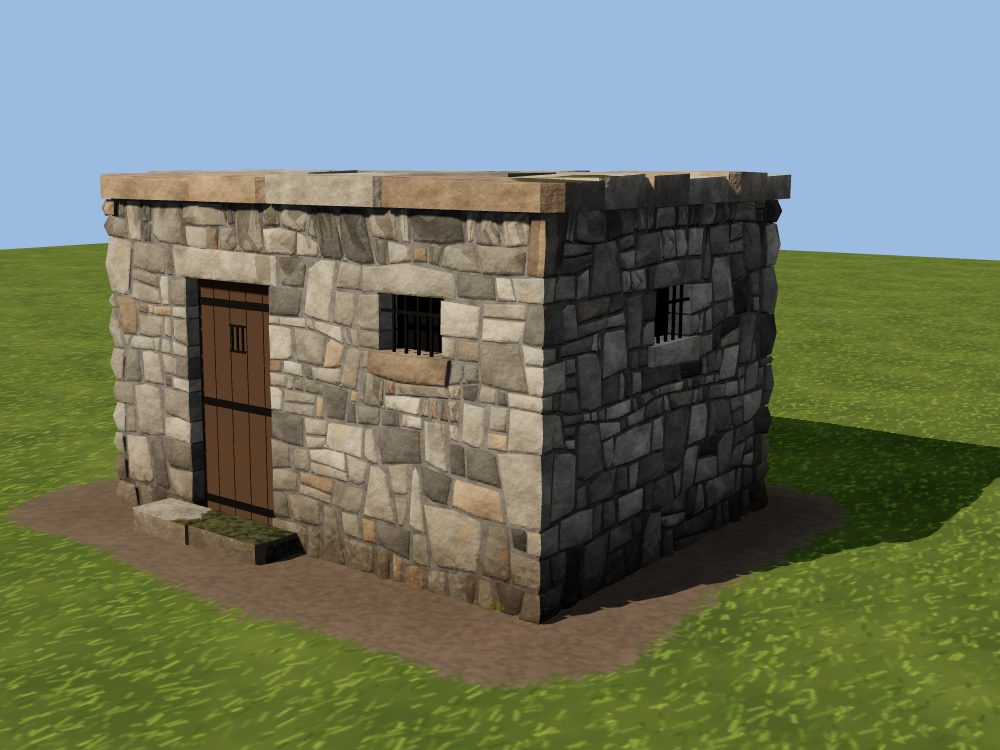
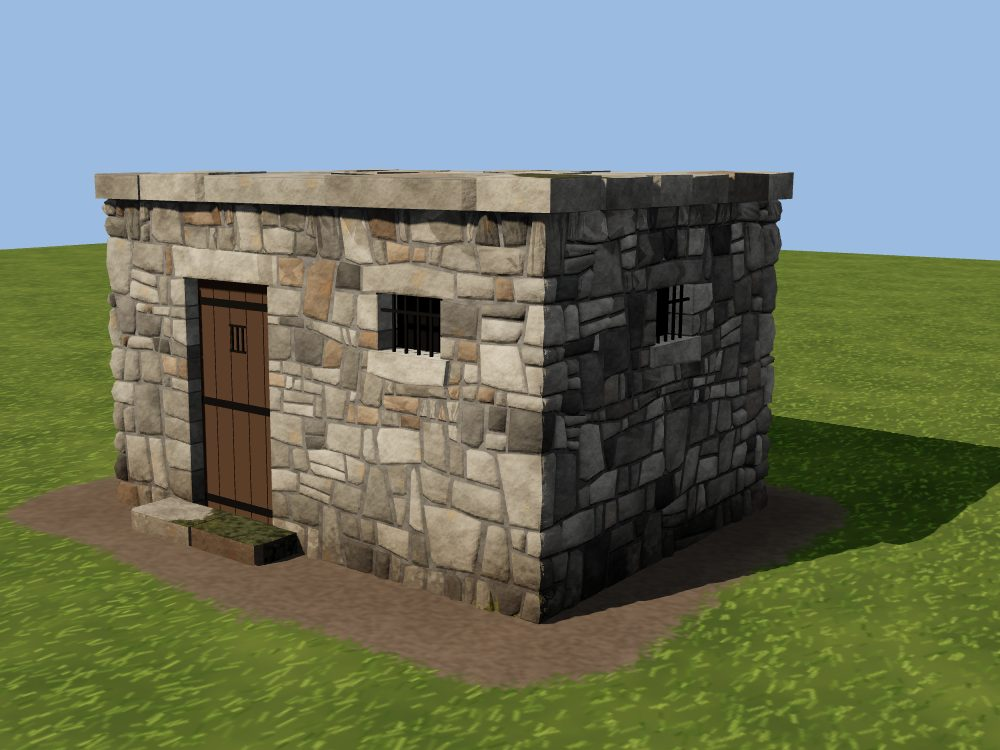
Stone Lab: rounded corner stones, every stone sitting on the mortar, a mortar depth slider, closed caps
Claude-Session: https://claude.ai/code/session_013cjWkL4PLa5o6fvGQ3D2Bo

diff --git a/mathwood-valley/labs/stone/stonewall.js b/mathwood-valley/labs/stone/stonewall.js
@@ -52,9 +52,10 @@ export const TILE = 0.7;                       // metres to one repeat of the st
 // shape (a key of SHAPES), style (STYLES), palette (PALETTES, or 'auto': the shape's or style's own), mortar (MORTARS),
 // seed (which wall of all the walls that recipe could build), size (a typical stone, metres), irregularity (0..1),
 // colourMix (0: more of the palette's base colour, 1: more of its second), bulge (0..2: how far the stones stand out),
-// joint (the joint's width, metres)
-export const RECIPE_DEFAULTS = { shape: 'wall', style: 'mortared', palette: 'auto', mortar: 'grey', seed: 1, size: 0.3, irregularity: 0.5, colourMix: 0.5, bulge: 0.6, joint: 0.012 };
-const RANGES = { seed: [1, 1e9], size: [0.12, 0.8], irregularity: [0, 1], colourMix: [0, 1], bulge: [0, 2], joint: [0, 0.05] };
+// joint (the joint's width, metres), mortarDepth (mortared: how far the mortar's face sits back from the wall line,
+// metres; the stones' outlines always sit on it, so it never shows a gap behind a stone, and 0 is flush)
+export const RECIPE_DEFAULTS = { shape: 'wall', style: 'mortared', palette: 'auto', mortar: 'grey', seed: 1, size: 0.3, irregularity: 0.5, colourMix: 0.5, bulge: 0.6, joint: 0.012, mortarDepth: 0.02 };
+const RANGES = { seed: [1, 1e9], size: [0.12, 0.8], irregularity: [0, 1], colourMix: [0, 1], bulge: [0, 2], joint: [0, 0.05], mortarDepth: [0, 0.05] };
 // a recipe tidied up: only the keys above, each a known name or a number in range (what a town would store per building)
 export function stoneRecipe(r = {}) {
   const out = { ...RECIPE_DEFAULTS };
@@ -85,11 +86,15 @@ const G = -0.12;                               // walls start 12 cm under the gr
 //   stands well out from the wall). k, max: how far in the ring is (share of the stone's half width, at most max
 //   metres); faceK: how much of the bulge the ring lifts the face; faceAdd: metres more, between these two, per stone.
 //   Three triangles a corner instead of one.
+// corner (mortared): a stone within `near` metres of an outside corner gets a ring too, so seen edge on past the corner
+//   it has a rounded profile (steep sides, a rounder top), not the point of a pyramid; extra: how far its middle rises
+//   above the ring. Every mortared stone's outline sits down on the mortar: none floats off it.
 // joint: the gap between stones, times the "joint width" slider; fill: the mortar's colour times this, for the backing
 // (a dry wall's gaps a little darker than a mortared wall's joints); value: how much lighter or darker one stone is
 // than the next
 export const STYLES = {
-  mortared: { label: 'Mortared', recess: 0.035, rim: [0.002, 0.012], tilt: 0.07, bulge: [0.15, 0.2], stick: 0.03, ring: null, joint: 1, maxN: 7, coreAO: 0.8, rimAO: 0.85, value: 0.16, shadow: true, fill: 1 },
+  mortared: { label: 'Mortared', recess: 0.035, tilt: 0.07, bulge: [0.15, 0.2], stick: 0.03, ring: null, joint: 1, maxN: 7, coreAO: 0.8, rimAO: 0.85, value: 0.16, shadow: true, fill: 1,
+    corner: { near: 0.5, k: 0.35, max: 0.04, faceK: 0, extra: [0.005, 0.012] } },
   drystack: { label: 'Dry-stacked', recess: 0.09, rim: [0, 0.003], tilt: 0.07, bulgeK: 0.35, ring: { k: 0.24, max: 0.03, faceK: 0.5, faceAdd: [0.05, 0.11] }, joint: 0.45, maxN: 5, fill: 0.88, coreAO: 0.82, rimAO: 0.7, value: 0.14 },
   ledgestone: { label: 'Ledgestone', recess: 0.05, rim: [0, 0.002], tilt: 0.035, bulgeK: 0.06, ring: { k: 0.4, max: 0.01, faceK: 0, faceAdd: [0.03, 0.07] }, joint: 0.6, jointVar: true, maxN: 6, fill: 0.88, coreAO: 0.82, rimAO: 0.75, value: 0.1 },
 };
@@ -425,7 +430,7 @@ function layoutCoursed(sec, ops, o, R) {
     const TL = onLine(X.ljl, Lt), TR = onLine(X.ljr, Lt), p = [[X.la, vb], [X.ua, vb], [X.ub, vb], [X.lb, vb], TR], f = [OUT, REV, OUT, J, J];
     const mt = (TL[0] + TR[0]) / 2, yt = at(Lt, mt); if (yt > (TL[1] + TR[1]) / 2 + 0.004) { p.push([mt, yt]); f.push(J); }
     p.push(TL); f.push(J);
-    const q = { p, f, proud: 0.008, light: 1.08 };
+    const q = { p, f, lift: 0.008, light: 1.08 };
     for (const i of [p.length - 1, 4].filter(() => R() < 0.8)) chip(q, i, s * (0.05 + 0.12 * R()), s * (0.03 + 0.08 * R()));
     out.push(q);
     if (X.door) continue;
@@ -610,7 +615,7 @@ function layoutCoursed(sec, ops, o, R) {
       }
       const q = rubble(jl, jr, lines[b], lines[st.top], fB, fR, fT, fL, K, st.force);
       if (!q) continue;
-      if (st.kind === 'quoin') q.proud = 0.01 + 0.01 * R();
+      if (st.kind === 'quoin') q.lift = 0.004 + 0.006 * R();
       q.drip = drip;
       out.push(q);
     }
@@ -861,7 +866,7 @@ function layoutTop(T, o, R) {
   const inRect = (x, z) => T.rects.some((r) => x > r.x0 - 1e-6 && x < r.x1 + 1e-6 && z > r.z0 - 1e-6 && z < r.z1 + 1e-6);
   const inHole = (x, z) => (T.holes || []).some(([a, b, c, d]) => x > a && x < b && z > c && z < d);
   return out.map((q) => {
-    const n0 = q.p.length, tk = 0.9 + 0.2 * R();
+    const n0 = q.p.length, tk = 0.95 + 0.1 * R();
     const F = q.p.map((P, i) => {
       const Q = q.p[(i + 1) % n0], dx = Q[0] - P[0], dz = Q[1] - P[1], L = Math.hypot(dx, dz) || 1, cx = (P[0] + Q[0]) / 2, cz = (P[1] + Q[1]) / 2;
       const mx = cx + dz / L * 0.012, mz = cz - dx / L * 0.012;
@@ -879,7 +884,7 @@ function layoutTop(T, o, R) {
       let x = P[0], y = P[1];
       for (const e of [(i - 1 + n0) % n0, i]) {
         if (!isLip(F[e])) { (e === i ? ovOut : ovIn)[i] = Infinity; continue; }
-        const A = q.p[e], B = q.p[(e + 1) % n0], eu = B[0] - A[0], ev = B[1] - A[1], L = Math.hypot(eu, ev) || 1, d = Math.max(0, F[e].ov - 0.04) * R() * rough;
+        const A = q.p[e], B = q.p[(e + 1) % n0], eu = B[0] - A[0], ev = B[1] - A[1], L = Math.hypot(eu, ev) || 1, d = Math.max(0, F[e].ov - 0.04) * R() * 0.5 * rough;
         x += -ev / L * d; y += eu / L * d;                          // (inward: an anticlockwise edge's left)
         (e === i ? ovOut : ovIn)[i] = F[e].ov - d;
       }
@@ -942,6 +947,10 @@ const ground = (y) => 0.76 + 0.24 * smooth(y, -0.05, 0.7);      // a corner near
 // one stone: its outline q (on the strip, or on a wall top), how it looks L. Folded round any outside corner it crosses.
 function addStone(M, q, surf, L) {
   const c = centroid(q.p), A = Math.abs(area(q.p));
+  // (the whole stone's narrowness: how far its middle is from its nearest edge; both halves of a folded stone use it)
+  let pinS = Infinity;
+  q.p.forEach((P, i) => { const Q = q.p[(i + 1) % q.p.length], dx = Q[0] - P[0], dy = Q[1] - P[1], Ln = Math.hypot(dx, dy) || 1; pinS = Math.min(pinS, Math.abs((c[0] - P[0]) * dy - (c[1] - P[1]) * dx) / Ln); });
+  L = { ...L, pinS };
   let pieces = [q], folds = [];
   if (surf.sec) {
     const sec = surf.sec, P = sec.P, sh = Math.floor(c[0] / P) * P;
@@ -967,10 +976,12 @@ function addPiece(M, q, surf, L, c, A, folds) {
   // corner would stick out like a fin)
   let pin = Infinity;
   q.p.forEach((P, i) => { const Q = q.p[(i + 1) % q.p.length], dx = Q[0] - P[0], dy = Q[1] - P[1], Ln = Math.hypot(dx, dy) || 1; pin = Math.min(pin, Math.abs((pc[0] - P[0]) * dy - (pc[1] - P[1]) * dx) / Ln); });
-  const RG = A > 0.014 ? L.ring : null, share = clamp(Math.sqrt(pa / A) * 1.25, 0.3, 1);
+  const RG = A > (L.ringMinA ?? 0.014) ? L.ring : null, share = clamp(Math.sqrt(pa / A) * 1.25, 0.3, 1);
   const hP = Math.min((RG ? L.extra : L.hB) * share, 0.7 * pin);
   // with a ring: the outline on the backing, the face (leaning as the stone leans) on the ring
-  const faceH = (u, v) => clamp(L.face + L.tu * (u - c[0]) + L.tv * (v - c[1]), 0.006, 2 * L.face + 0.02);
+  // (never higher than the stone is wide allows: a thin stone stays low)
+  const fMax = Math.max(0.006, Math.min(2 * L.face + 0.02, 1.2 * L.pinS + 0.004));
+  const faceH = (u, v) => clamp(L.face + L.tu * (u - c[0]) + L.tv * (v - c[1]), 0.006, fMax);
   // its outline, with a point added half way along each fold (the corner of the stone, rounded out)
   const V = [];
   for (let i = 0; i < q.p.length; i++) {
@@ -1054,7 +1065,10 @@ function addPiece(M, q, surf, L, c, A, folds) {
       // along the stone's bottom edge, the top third or so of the joint, where the stone above overhangs it. It stops
       // short of a fold by the mortar's depth (there the next face's mortar takes over), so it never pokes past a corner.
       const z = L.core + 0.0012, dv = -0.009, tn = L.shadow, tr = -L.core + 0.004;
-      const pu = P.u + (P.F ? tr : 0), qu = Q.u - (Q.F ? tr : 0), vAt = (u) => P.v + (Q.v - P.v) * (u - P.u) / (Q.u - P.u);
+      // (and so does a strip under a stone that merely ends near an outside corner: none reaches past the next face's
+      // mortar)
+      const n2 = sec.n, cA = sec.C[k] + (sec.convex[k] ? tr : -1), cB = sec.C[k + 1] - (sec.convex[(k + 1) % n2] ? tr : -1);
+      const pu = Math.max(P.u + (P.F ? tr : 0), cA), qu = Math.min(Q.u - (Q.F ? tr : 0), cB), vAt = (u) => P.v + (Q.v - P.v) * (u - P.u) / (Q.u - P.u);
       if (qu - pu > 0.01) {
         const pv = vAt(pu), qv = vAt(qu);
         const pts = [[pu, pv], [qu, qv], [qu, qv + dv], [pu, pv + dv]].map(([u, v]) => { const m = at(u, v); return add(m, [m[3], m[4], m[5]], z); });
@@ -1073,15 +1087,16 @@ function addPiece(M, q, surf, L, c, A, folds) {
     if (flip) sn = [-sn[0], -sn[1], -sn[2]];
     // its texture carries on over the edge, as if folded down
     const eu = Q.u - P.u, ev = Q.v - P.v, el = Math.hypot(eu, ev) || 1, ou = ev / el, ov = -eu / el, k2 = fl.skirt / TILE;
-    const farAO = fl.dir === 'down' ? (fl.inset ? 0.8 : 0.66) : 0.8, nearAO = fl.dir === 'down' ? 0.9 : 0.95;
+    const farAO = fl.dir === 'down' ? (fl.inset ? 0.85 : 0.75) : 0.8, nearAO = fl.dir === 'down' ? 0.92 : 0.95;
     const i0 = M.v(P.pos, sn, P.uv, tl, nearAO * ground(P.pos[1]), [0, inr], L.drip), i1 = M.v(Q.pos, sn, Q.uv, tl, nearAO * ground(Q.pos[1]), [0, inr], L.drip);
     const i2 = M.v(b2, sn, [Q.uv[0] + ou * k2, Q.uv[1] + ov * k2], tl, farAO * ground(b2[1]), [fl.skirt, inr], L.drip), i3 = M.v(a2, sn, [P.uv[0] + ou * k2, P.uv[1] + ov * k2], tl, farAO * ground(a2[1]), [fl.skirt, inr], L.drip);
     if (flip) { M.t(i0, i2, i1); M.t(i0, i3, i2); } else { M.t(i0, i1, i2); M.t(i0, i2, i3); }
     if (fl.soffit) {
       // the underside of the overhang, back toward the wall: in shadow
-      const inA = add(a2, [-ou, 0, -ov], fl.soffit), inB = add(b2, [-ou, 0, -ov], fl.soffit), dk = [tl[0] * 0.9, tl[1] * 0.9, tl[2] * 0.9, 4];
-      const j0 = M.v(a2, [0, -1, 0], [P.uv[0] + ou * k2, P.uv[1] + ov * k2], dk, 0.6, [0, inr], L.drip), j1 = M.v(b2, [0, -1, 0], [Q.uv[0] + ou * k2, Q.uv[1] + ov * k2], dk, 0.6, [0, inr], L.drip);
-      const j2 = M.v(inB, [0, -1, 0], [Q.uv[0], Q.uv[1]], dk, 0.48, [fl.soffit, inr], L.drip), j3 = M.v(inA, [0, -1, 0], [P.uv[0], P.uv[1]], dk, 0.48, [fl.soffit, inr], L.drip);
+      // (lit only by what bounces up off the ground, so already dark: not darkened much more on top of that)
+      const inA = add(a2, [-ou, 0, -ov], fl.soffit), inB = add(b2, [-ou, 0, -ov], fl.soffit), dk = tl;
+      const j0 = M.v(a2, [0, -1, 0], [P.uv[0] + ou * k2, P.uv[1] + ov * k2], dk, 0.85, [0, inr], L.drip), j1 = M.v(b2, [0, -1, 0], [Q.uv[0] + ou * k2, Q.uv[1] + ov * k2], dk, 0.85, [0, inr], L.drip);
+      const j2 = M.v(inB, [0, -1, 0], [Q.uv[0], Q.uv[1]], dk, 0.72, [fl.soffit, inr], L.drip), j3 = M.v(inA, [0, -1, 0], [P.uv[0], P.uv[1]], dk, 0.72, [fl.soffit, inr], L.drip);
       const dn = cross(sub(b2, a2), sub(inA, a2));
       if (dn[1] < 0) { M.t(j0, j1, j2); M.t(j0, j2, j3); } else { M.t(j0, j2, j1); M.t(j0, j3, j2); }
     }
@@ -1155,7 +1170,8 @@ function addCore(M, sec0, ops, st, tint, dark, capY, flue, dripY = sec0.y1) {
 export function buildStoneWall(recipe = {}, env = {}) {
   const t0 = performance.now();
   const o = stoneRecipe(recipe);
-  const st = STYLES[o.style], shape = SHAPES[o.shape], spec = shape.make(o);
+  // (a mortared wall's mortar sits as deep as the recipe says)
+  const st = o.style === 'mortared' ? { ...STYLES.mortared, recess: o.mortarDepth } : STYLES[o.style], shape = SHAPES[o.shape], spec = shape.make(o);
   const pal = PALETTES[o.palette] || PALETTES[shape.palette || (o.style === 'ledgestone' ? 'brown' : 'grey')], mo = MORTARS[o.mortar];
   // (a shape may want its own stones: the jail's smaller, rounder cobbles)
   const oL = { ...o, size: o.size * (shape.stones?.size ?? 1), round: !!shape.stones?.round };
@@ -1179,17 +1195,28 @@ export function buildStoneWall(recipe = {}, env = {}) {
   const dark = [...tintOf([0.06, 0.055, 0.05]), 3];
   // how one stone looks: how far its rim stands out, its lean, its bulge and where that peaks, where it reads the texture
   const look = (q, pos, extra = {}) => {
-    const A = Math.abs(area(q.p)), ang = R() * 6.283, tilt = st.tilt * (0.5 + 0.5 * R()), proud = q.proud || 0, rg = st.ring;
-    const bb = bbox(q.p), short = Math.min(bb[1] - bb[0], bb[3] - bb[2]);
-    const hB = rg ? Math.min(o.bulge * st.bulgeK * Math.sqrt(A) * (0.75 + 0.5 * R()), 0.035 + 0.02 * o.bulge)
+    const A = Math.abs(area(q.p)), ang = R() * 6.283, tilt = st.tilt * (0.5 + 0.5 * R()), proud = q.proud || 0, cr = st.corner && q.nearCorner ? st.corner : null, rg = st.ring || cr;
+    const bb = bbox(q.p), short = Math.min(bb[1] - bb[0], bb[3] - bb[2]), base = -st.recess + 0.002 + proud;
+    const hB = st.ring ? Math.min(o.bulge * st.bulgeK * Math.sqrt(A) * (0.75 + 0.5 * R()), 0.035 + 0.02 * o.bulge)
       : (st.bulge[0] + (st.bulge[1] - st.bulge[0]) * R()) * short * o.bulge / 0.6 * (R() < 0.12 ? 0.45 : 1) + st.stick * R();
-    const tint = colourAt(pos, q.noDark), lt = Math.pow(q.light || 1, 2.2), r0 = -st.recess + st.rim[0] + (st.rim[1] - st.rim[0]) * R() + proud;
-    // (a stone's face is a fan round one point: past about 2 cm proud of the wall line, seen edge on at a corner or a
-    // wall end, that point reads as a spike, not a rounded stone)
-    const hBc = rg ? hB : Math.min(hB, 0.022 + proud - r0);
-    return { tint: tint.map((x) => x * lt), r0, hB: hBc, rMin: -st.recess + 0.002 + proud, rMax: -st.recess + st.rim[1] + 0.006 + proud,
+    const tint = colourAt(pos, q.noDark), lt = Math.pow(q.light || 1, 2.2);
+    // a dry stone: its outline on the backing, its face on a ring of corners standing well out
+    let face = 0, extraH = 0, hBc = hB, r0 = base, rMin = base, rMax = base;
+    if (st.ring) { face = hB * rg.faceK + rg.faceAdd[0] + (rg.faceAdd[1] - rg.faceAdd[0]) * R(); extraH = hB * (1 - rg.faceK); }
+    else if (cr) {
+      // A MORTARED STONE NEAR AN OUTSIDE CORNER: seen edge on past the corner, its profile is what shows, so it is rounded:
+      // the outline on the mortar, steep sides up to a ring of corners, a gently rounded top. (A corner stone stands a
+      // little prouder: its face is higher, its outline still on the mortar, so it never floats off the grout.)
+      face = (st.recess + 0.004 + 0.01 * R()) * o.bulge / 0.6 + (q.lift || 0);
+      extraH = (cr.extra[0] + (cr.extra[1] - cr.extra[0]) * R()) * o.bulge / 0.6;
+    } else {
+      // any other mortared stone: a fan round one raised point, its outline on the mortar, its middle at most 1.2 cm
+      // past the wall line (seen along the wall, a higher point reads as a spike)
+      hBc = Math.min(hB, 0.012 - base + (q.lift || 0));
+    }
+    return { tint: tint.map((x) => x * lt), r0, hB: hBc, rMin, rMax,
       tu: Math.cos(ang) * tilt, tv: Math.sin(ang) * tilt, apex: [0.3 * R(), R()], edgeK: 0.35 + 0.65 * R(), rimAO: st.rimAO, uvo: [R(), R()],
-      ring: rg, base: -st.recess + 0.0015, face: rg ? hB * rg.faceK + rg.faceAdd[0] + (rg.faceAdd[1] - rg.faceAdd[0]) * R() : 0, extra: rg ? hB * (1 - rg.faceK) : 0,
+      ring: rg, ringMinA: st.ring ? 0.014 : 0.003, base: st.ring ? -st.recess + 0.0015 : base, face, extra: extraH,
       core: -st.recess, shadow: st.shadow ? shadowTint : null, shadowHalf: halfTint, MS: M.mortar, drip: q.drip, ...extra };
   };
   // the joint: a dry wall's gaps vary stone to stone (0.5 to 2.5 cm on ledgestone)
@@ -1212,8 +1239,15 @@ export function buildStoneWall(recipe = {}, env = {}) {
     const polys = o.style === 'mortared' ? layoutCoursed(sec, ops, oL, R) : layoutPacked(sec, ops, oL, R, o.style === 'ledgestone');
     for (const q of polys) {
       const f = finish(q, jwOf(), st.ring && Math.abs(area(q.p)) < 0.012 ? 4 : st.maxN, 0.03); if (!f) continue;
+      // (a sliver, under 2.5 cm across either way, is no stone: left out, the mortar shows; raised as a corner stone it
+      // would stick out of the corner like a thin plate)
+      if (o.style === 'mortared') { const b = bbox(f.p); if (b[1] - b[0] < 0.025 || b[3] - b[2] < 0.025) continue; }
       const c = centroid(f.p), m = mapStrip(sec, c[0], c[1], faceAt(sec, c[0]));
-      f.proud = q.proud; f.drip = spec.building ? -1 : q.drip ?? (sec.isTop ? capBottom : sec.y1);
+      f.proud = q.proud; f.lift = q.lift; f.light = q.light; f.drip = spec.building ? -1 : q.drip ?? (sec.isTop ? capBottom : sec.y1);
+      if (st.corner) {
+        const b = bbox(f.p), nr = st.corner.near;
+        f.nearCorner = sec.C.some((cu, k) => k < sec.n && sec.convex[k] && [-sec.P, 0, sec.P].some((sh) => cu + sh > b[0] - nr && cu + sh < b[1] + nr));
+      }
       addStone(M.stone, f, { sec }, look(f, m, sec.isTop ? { capY: capBottom } : {})); count++;
     }
     addCore(M.mortar, sec, ops, st, mortarTint, dark, sec.isTop ? T.y - Math.min(0.03, T.t * 0.3) : null, sec.isTop && T.holes ? T.holes[0] : null, spec.building ? -1 : sec.y1);
@@ -1222,7 +1256,7 @@ export function buildStoneWall(recipe = {}, env = {}) {
   for (const q of layoutTop(T, o, R)) {
     if (T.hide) { const b = bbox(q.p); if (b[0] > T.hide[0] && b[1] < T.hide[1] && b[2] > T.hide[2] && b[3] < T.hide[3]) continue; }
     // (all its corners kept: merging corners away would pull a slab's joint edge to a point and open a gap)
-    const f = finish(q, jw * 0.5, 64, 0.004); if (!f) continue;
+    const f = finish(q, Math.min(jw * 0.25, 0.004), 64, 0.004); if (!f) continue;
     const c = centroid(f.p); f.drip = T.y - T.t - 0.08; f.noDark = true;  // (no rain streak down its own lip)
     const L = look(f, [c[0], T.y, c[1]]);
     // (its top: up to 10% higher or lower than the next slab's, rounded off toward its edges; a dry chimney's capstones
@@ -1258,7 +1292,7 @@ export function buildStoneWall(recipe = {}, env = {}) {
   const stone = M.stone.geometry(), mortar = M.mortar.geometry();
   const box = stone.boundingBox.clone().union(mortar.boundingBox);
   return { stone, mortar, stones: count, tris: { stone: M.stone.idx.length / 3, mortar: M.mortar.idx.length / 3 }, ms: performance.now() - t0,
-    openings: outOpen, top: T.y, box, building: spec.building || null, pipe: spec.pipe ? { ...spec.pipe, y: T.y } : null, palette: pal, options: o };
+    solid: spec.sections.map(({ loop0, loop1, y0, y1 }) => ({ loop0, loop1, y0, y1 })), openings: outOpen, top: T.y, box, building: spec.building || null, pipe: spec.pipe ? { ...spec.pipe, y: T.y } : null, palette: pal, options: o };
 }
 
 // ── the shader: darker stone edges from aRim, rain streaks from aDrip ───────────────────────────────────────────────────

diff --git a/mathwood-valley/labs/stone/main.js b/mathwood-valley/labs/stone/main.js
@@ -7,9 +7,9 @@ import * as THREE from 'three';
 import { OrbitControls } from 'three/addons/controls/OrbitControls.js';
 import { mergeGeometries } from 'three/addons/utils/BufferGeometryUtils.js';
 import { makeTextures, setStone, STONE_LOOKS } from '../materials/textures.js';
-import { makeRubbleTexture } from './stonetex.js?v=2';
+import { makeRubbleTexture } from './stonetex.js?v=4';
 import { U, weather } from '../materials/weather.js';
-import { buildStoneWall, stoneEdges, stoneRecipe, RECIPE_DEFAULTS, SHAPES, STYLES, PALETTES, MORTARS } from './stonewall.js?v=2';
+import { buildStoneWall, stoneEdges, stoneRecipe, RECIPE_DEFAULTS, SHAPES, STYLES, PALETTES, MORTARS } from './stonewall.js?v=4';
 
 const $ = (s, el = document) => el.querySelector(s);
 const num = (n) => Math.round(n).toLocaleString('en-US');
@@ -168,7 +168,7 @@ const cm = (v) => (v * 100).toFixed(1) + ' cm', mm = (v) => (+v).toFixed(2) + ' 
 const COMPASS = ['N', 'NE', 'E', 'SE', 'S', 'SW', 'W', 'NW'];
 const fmtAz = (v) => Math.round(v) + '° ' + COMPASS[Math.round(v / 45) % 8];
 const fmtHour = (v) => { const h = Math.floor(v), m = Math.round((v - h) * 60); return (h % 12 || 12) + ':' + String(m).padStart(2, '0') + (h < 12 ? 'am' : 'pm'); };
-const WALL_SLIDERS = [R_('Stone size', 'size', 0.15, 0.6, 0.01, mm), R_('Irregularity', 'irregularity', 0, 1, 0.01), R_('Joint width', 'joint', 0, 0.05, 0.001, cm),
+const WALL_SLIDERS = [R_('Stone size', 'size', 0.15, 0.6, 0.01, mm), R_('Irregularity', 'irregularity', 0, 1, 0.01), R_('Joint width', 'joint', 0, 0.05, 0.001, cm), R_('Mortar depth', 'mortarDepth', 0, 0.05, 0.001, cm),
   R_('Colour mix', 'colourMix', 0, 1, 0.01), R_('Bulge', 'bulge', 0, 2, 0.01)];
 const LOOK_SLIDERS = [R_('Moss', 'moss', 0, 1, 0.01, undefined, true), R_('Grime', 'grime', 0, 1, 0.01, undefined, true), R_('Edge darkening', 'uEdgeDark', 0, 1, 0.01, undefined, true),
   R_('Edge width', 'uEdgeDarkW', 0.005, 0.1, 0.0025, cm, true), R_('Bevel light', 'uBevel', 0, 1.5, 0.01, undefined, true)];
@@ -261,9 +261,35 @@ function resize() {
   if (sheet) camera.setViewOffset(w, h, 0, h * 0.22, w, h); else camera.clearViewOffset();
   camera.updateProjectionMatrix();
 }
+// the camera never goes inside the stonework (zooming toward a target in the middle of a building would take it
+// through the roof into the hollow inside): if it is within 15 cm of being inside a block of wall, it is moved back out
+// along its line to the target
+const _cv = new THREE.Vector3();
+function insideWall(p) {
+  if (!wall || !wall.solid) return false;
+  if (wall.building) { const B = wall.building; if (p.x > B.x0 - 0.15 && p.x < B.x1 + 0.15 && p.z > B.z0 - 0.15 && p.z < B.z1 + 0.15 && p.y < B.y + 3.8) return true; }
+  for (const S of wall.solid) {
+    if (p.y < S.y0 - 0.15 || p.y > Math.max(S.y1, wall.top) + 0.15) continue;
+    const t = Math.min(1, Math.max(0, (p.y - S.y0) / (S.y1 - S.y0))), L = S.loop0.map((a, i) => [a[0] + (S.loop1[i][0] - a[0]) * t, a[1] + (S.loop1[i][1] - a[1]) * t]);
+    let inside = false, dmin = Infinity;
+    for (let i = 0, j = L.length - 1; i < L.length; j = i++) {
+      const a = L[i], b = L[j];
+      if ((a[1] > p.z) !== (b[1] > p.z) && p.x < (b[0] - a[0]) * (p.z - a[1]) / (b[1] - a[1]) + a[0]) inside = !inside;
+      const ex = b[0] - a[0], ez = b[1] - a[1], l2 = ex * ex + ez * ez || 1, u = Math.max(0, Math.min(1, ((p.x - a[0]) * ex + (p.z - a[1]) * ez) / l2));
+      dmin = Math.min(dmin, Math.hypot(p.x - a[0] - ex * u, p.z - a[1] - ez * u));
+    }
+    if (inside || dmin < 0.15) return true;
+  }
+  return false;
+}
+function keepOutside() {
+  if (!insideWall(camera.position)) return;
+  _cv.subVectors(camera.position, controls.target).normalize();
+  for (let i = 0; i < 80 && insideWall(camera.position); i++) camera.position.addScaledVector(_cv, 0.05);
+}
 function loop() {
   requestAnimationFrame(loop);
-  resize(); controls.update();
+  resize(); controls.update(); keepOutside();
   renderer.render(scene, camera);
   frames++; const t = performance.now();
   if (t - fpsT > 500) { fps = Math.round(frames * 1000 / (t - fpsT)); frames = 0; fpsT = t; updateStats(); }
@@ -318,7 +344,7 @@ window.SL = {
   set(k, v) { setV(k, v); syncPanel(); },
   // build with several options at once, and stand the camera at that shape's view
   build(o = {}) { clearTimeout(rebuildTimer); if (o.stone && o.stone !== state.stone) useLook(o.stone); Object.assign(state, o); rebuild(); applyView(); syncPanel(); return this.info; },
-  cam(pos, tgt) { camera.position.set(...pos); controls.target.set(...tgt); controls.update(); },
+  cam(pos, tgt) { camera.position.set(...pos); controls.target.set(...tgt); controls.update(); keepOutside(); },
   get recipe() { return stoneRecipe(state); },
   get info() { return wall && { recipe: stoneRecipe(state), shape: state.shape, style: state.style, seed: state.seed, stones: wall.stones, tris: wall.tris, trisPerStone: wall.tris.stone / wall.stones, ms: wall.ms, texMs: stats.texMs, calls: renderer.info.render.calls }; },
   get renderer() { return renderer; },

diff --git a/mathwood-valley/labs/stone/index.html b/mathwood-valley/labs/stone/index.html
@@ -9,7 +9,7 @@
 <script src="../../oops.js"></script>
 <link rel="stylesheet" href="../../src/ui/fonts/fonts.css">
 <link rel="stylesheet" href="../materials/materials.css?v=1">
-<link rel="stylesheet" href="stone.css?v=2">
+<link rel="stylesheet" href="stone.css?v=4">
 <script type="importmap">{ "imports": { "three": "https://unpkg.com/three@0.158.0/build/three.module.js", "three/addons/": "https://unpkg.com/three@0.158.0/examples/jsm/" } }</script>
 </head>
 <body>
@@ -20,6 +20,6 @@
   <aside class="panel" id="panel" aria-label="Stone wall controls"></aside>
 </div>
 <div class="loading" id="loading">Gathering stones…</div>
-<script type="module" src="main.js?v=2"></script>
+<script type="module" src="main.js?v=4"></script>
 </body>
 </html>
